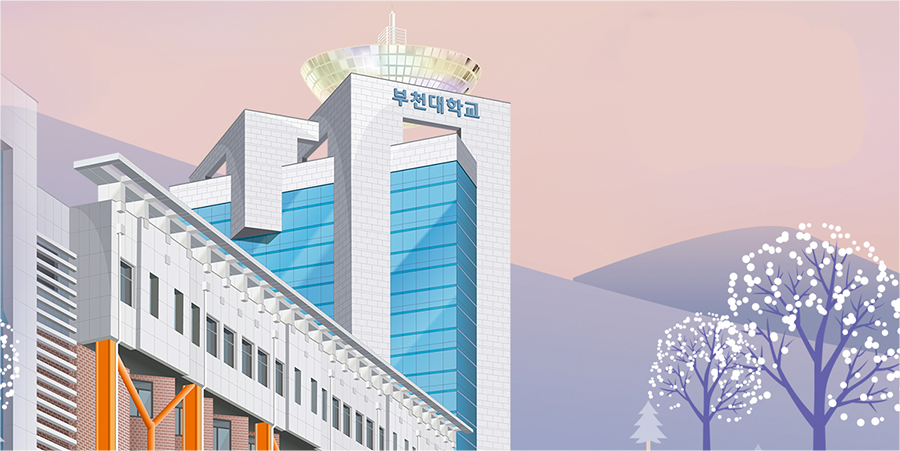
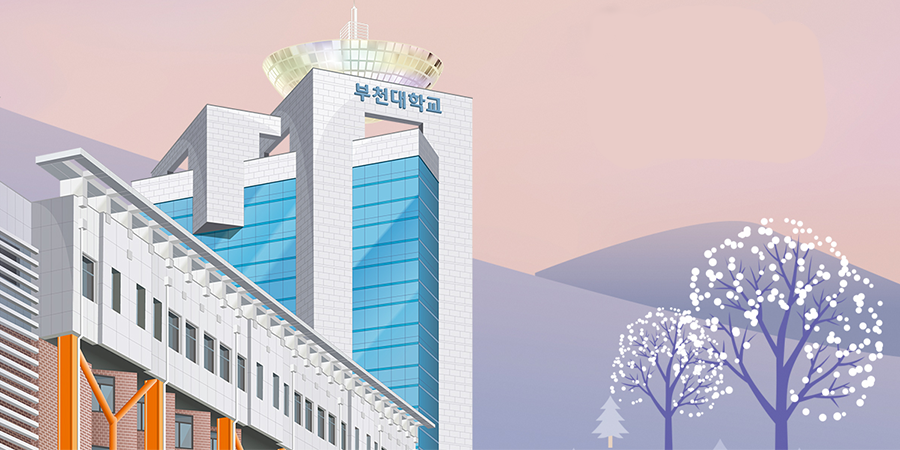
bucheon v2

diff --git a/04college/index.html b/04college/index.html
@@ -16,6 +16,15 @@
     <script src="js/jquery.bxslider.js"></script>
     <script src="js/wow.min.js"></script>
 </head>
+<script>
+    $(document).ready(function(){
+        $(".slide1").bxSlider({
+
+            
+        })
+    })
+
+</script>
 <body>
     <header class="header">
         <div class="header_top_wrap">
@@ -93,9 +102,31 @@
         <div class="sec02 container">
             <ul class="clearfix">
                 <li>
-                    <h2>부천에서<br>시작하는<br>새로운꿈</h2>
+                    <ul class="slide1">
+                        <li style="background-image:url(images/content01.png);" class="slide_list">
+                            <div class="txt_wrap">
+                                <h2>부천에서<br>시작하는<br>새로운꿈</h2>
+                                <a href="#">자세히 보기</a>
+                            </div>
+                        </li>
+                        <li style="background-image:url(images/content01.png);" class="slide_list">
+                            <div class="txt_wrap">
+                                <h2>부천에서<br>시작하는<br>새로운꿈</h2>
+                                <a href="#">자세히 보기</a>
+                            </div>
+                        </li>
+                        <li style="background-image:url(images/content01.png);" class="slide_list">
+                            <div class="txt_wrap">
+                                <h2>부천에서<br>시작하는<br>새로운꿈</h2>
+                                <a href="#">자세히 보기</a>
+                            </div>
+                        </li>
+                    </ul>
                 </li>
-                <li></li>
+                <li style="background-image:url(images/content02.png)">
+                    
+                
+                </li>
                 <li></li>
                 <li></li>
                 <li></li>

diff --git a/04college/css/style.css b/04college/css/style.css
@@ -60,14 +60,26 @@
 .icon_menu li img{}
 .icon_menu li p{color: #C7A25B;}
 
+#section .sec02{}
+.slide1 li{position: relative;}
+.txt_wrap{
+    position: absolute;right: 50px;top: 50px;
+}
+.slide_list h2{margin-bottom: 14px;}
+.slide_list a{
+    background-color: #c7a25b;color: #fff;padding: 12px 30px;
+}
+.slide_list{height: 450px !important;position: relative;}
+
+
+
+
 
 
 /* 안쪽에 ul li 테크를 다시 사용하기 때문에 >를 반드시 써주자 */
 #section .sec01.container{width: 1200px;}
 #section .sec02>ul>li{float: left;width: 300px;height: 225px;}
-#section .sec02>ul>li:nth-child(1){
-    width: 900px;height: 450px;background-image: url(../images/content01.png);
-}
+#section .sec02>ul>li:nth-child(1){width: 900px;height: 450px;}
 #section .sec02>ul>li:nth-child(2){height: 450px;}
 #section .sec02>ul>li:nth-child(3){}
 #section .sec02>ul>li:nth-child(4){}
@@ -78,5 +90,7 @@
 
 
 /* common */
-h2{font-size: 72px;font-weight: 700;color: #e9ac36;}
+h2{font-size: 62px;font-weight: 700;color: #e9ac36;}
 .container{width: 1200px;margin: 0 auto;}
+
+
